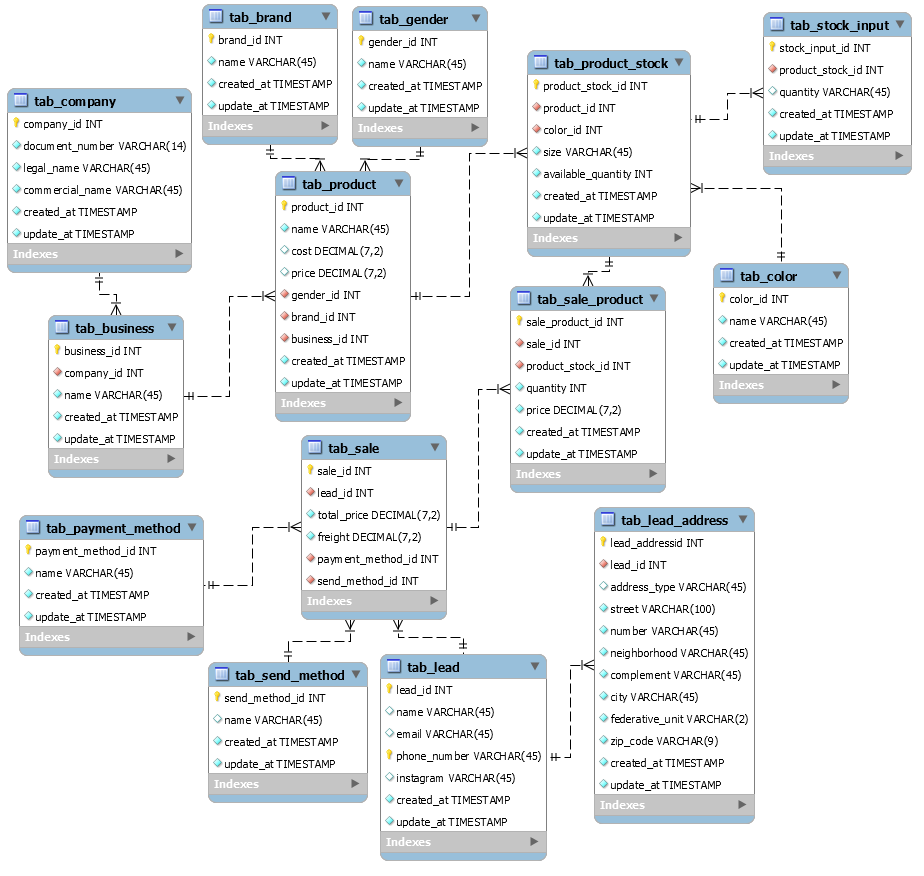
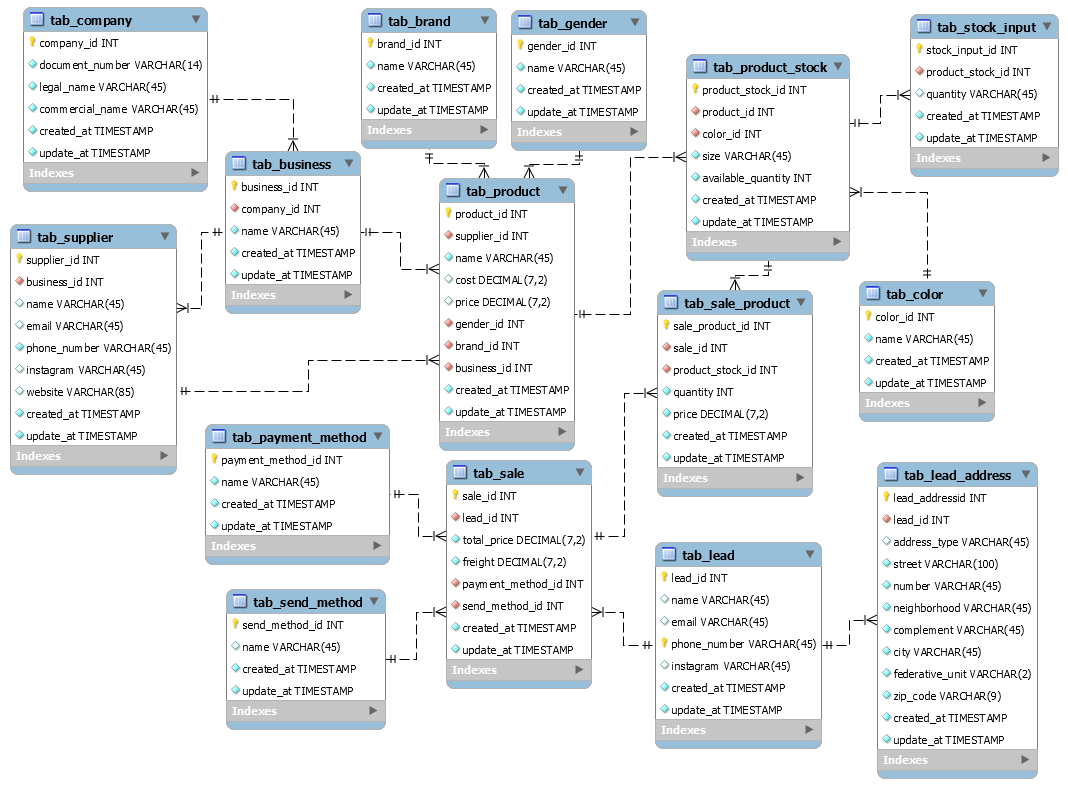
add tab_supplier

diff --git a/data/migrations/migrations.go b/data/migrations/migrations.go
@@ -73,10 +73,36 @@ var (
 		},
 		{
 			Version:     5,
+			Description: "Create tab_supplier",
+			Script: `
+				CREATE TABLE IF NOT EXISTS tab_supplier (
+					supplier_id INT NOT NULL AUTO_INCREMENT,
+					business_id INT NOT NULL,
+					name VARCHAR(45) NULL,
+					email VARCHAR(45) NULL,
+					phone_number VARCHAR(45) NOT NULL,
+					instagram VARCHAR(45) NULL,
+					website VARCHAR(85) NULL,
+					created_at TIMESTAMP NOT NULL DEFAULT CURRENT_TIMESTAMP,
+					update_at TIMESTAMP NOT NULL DEFAULT CURRENT_TIMESTAMP ON UPDATE CURRENT_TIMESTAMP,
+					PRIMARY KEY (supplier_id),
+					UNIQUE INDEX supplier_id_UNIQUE (supplier_id ASC) VISIBLE,
+					INDEX fk_tab_supplier_tab_business1_idx (business_id ASC) VISIBLE,
+					CONSTRAINT fk_tab_supplier_tab_business1
+					FOREIGN KEY (business_id)
+					REFERENCES tab_business (business_id)
+					ON DELETE NO ACTION
+					ON UPDATE NO ACTION)
+				ENGINE=InnoDB CHARACTER SET=utf8;
+			`,
+		},
+		{
+			Version:     6,
 			Description: "Create tab_product",
 			Script: `
 				CREATE TABLE IF NOT EXISTS tab_product (
 					product_id INT NOT NULL AUTO_INCREMENT,
+					supplier_id INT NOT NULL,
 					name VARCHAR(45) NOT NULL,
 					cost DECIMAL(7,2) NULL DEFAULT 0.00,
 					price DECIMAL(7,2) NULL DEFAULT 0.00,
@@ -90,6 +116,7 @@ var (
 					INDEX fk_tab_products_tab_business1_idx (business_id ASC) VISIBLE,
 					INDEX fk_tab_product_tab_brand1_idx (brand_id ASC) VISIBLE,
 					INDEX fk_tab_product_tab_gender1_idx (gender_id ASC) VISIBLE,
+					INDEX fk_tab_product_tab_supplier1_idx (supplier_id ASC) VISIBLE,
 					CONSTRAINT fk_tab_product_tab_business1
 					FOREIGN KEY (business_id)
 					REFERENCES tab_business (business_id)
@@ -104,12 +131,17 @@ var (
 					FOREIGN KEY (gender_id)
 					REFERENCES tab_gender (gender_id)
 					ON DELETE NO ACTION
+					ON UPDATE NO ACTION,
+					CONSTRAINT fk_tab_product_tab_supplier1
+					FOREIGN KEY (supplier_id)
+					REFERENCES tab_supplier (supplier_id)
+					ON DELETE NO ACTION
 					ON UPDATE NO ACTION)
 				ENGINE=InnoDB CHARACTER SET=utf8;
 				`,
 		},
 		{
-			Version:     6,
+			Version:     7,
 			Description: "Create tab_lead",
 			Script: `
 				CREATE TABLE IF NOT EXISTS tab_lead (
@@ -127,7 +159,7 @@ var (
 			`,
 		},
 		{
-			Version:     7,
+			Version:     8,
 			Description: "Create tab_send_method",
 			Script: `
 				CREATE TABLE IF NOT EXISTS tab_send_method (
@@ -142,7 +174,7 @@ var (
 			`,
 		},
 		{
-			Version:     8,
+			Version:     9,
 			Description: "Create tab_payment_method",
 			Script: `
 				CREATE TABLE IF NOT EXISTS tab_payment_method (
@@ -156,7 +188,7 @@ var (
 			`,
 		},
 		{
-			Version:     9,
+			Version:     10,
 			Description: "Create tab_sale",
 			Script: `
 				CREATE TABLE IF NOT EXISTS tab_sale (
@@ -166,6 +198,8 @@ var (
 					freight DECIMAL(7,2) NOT NULL,
 					payment_method_id INT NOT NULL,
 					send_method_id INT NOT NULL,
+					created_at TIMESTAMP NOT NULL DEFAULT CURRENT_TIMESTAMP,
+					update_at TIMESTAMP NOT NULL DEFAULT CURRENT_TIMESTAMP ON UPDATE CURRENT_TIMESTAMP,
 					PRIMARY KEY (sale_id),
 					INDEX fk_tab_sale_tab_lead1_idx (lead_id ASC) VISIBLE,
 					INDEX fk_tab_sale_tab_send_method1_idx (send_method_id ASC) VISIBLE,
@@ -190,7 +224,7 @@ var (
 			`,
 		},
 		{
-			Version:     10,
+			Version:     11,
 			Description: "Create tab_color",
 			Script: `
 				CREATE TABLE IF NOT EXISTS tab_color (
@@ -204,7 +238,7 @@ var (
 			`,
 		},
 		{
-			Version:     11,
+			Version:     12,
 			Description: "Create tab_product_stock",
 			Script: `
 				CREATE TABLE IF NOT EXISTS tab_product_stock (
@@ -233,7 +267,7 @@ var (
 			`,
 		},
 		{
-			Version:     12,
+			Version:     13,
 			Description: "Create tab_lead_address",
 			Script: `
 				CREATE TABLE IF NOT EXISTS tab_lead_address (
@@ -261,7 +295,7 @@ var (
 			`,
 		},
 		{
-			Version:     13,
+			Version:     14,
 			Description: "Create tab_sale_product",
 			Script: `
 				CREATE TABLE IF NOT EXISTS tab_sale_product (
@@ -290,8 +324,8 @@ var (
 			`,
 		},
 		{
-			Version:     14,
-			Description: "Insert data into tab_payment_method",
+			Version:     15,
+			Description: "Create tab_stock_input",
 			Script: `
 				CREATE TABLE IF NOT EXISTS tab_stock_input (
 					stock_input_id INT UNSIGNED NOT NULL,
@@ -311,7 +345,7 @@ var (
 			`,
 		},
 		{
-			Version:     15,
+			Version:     16,
 			Description: "Insert data into tab_payment_method",
 			Script: `
 				INSERT INTO tab_payment_method 
@@ -323,7 +357,7 @@ var (
 			`,
 		},
 		{
-			Version:     16,
+			Version:     17,
 			Description: "Insert data into tab_send_method",
 			Script: `
 				INSERT INTO tab_send_method 
